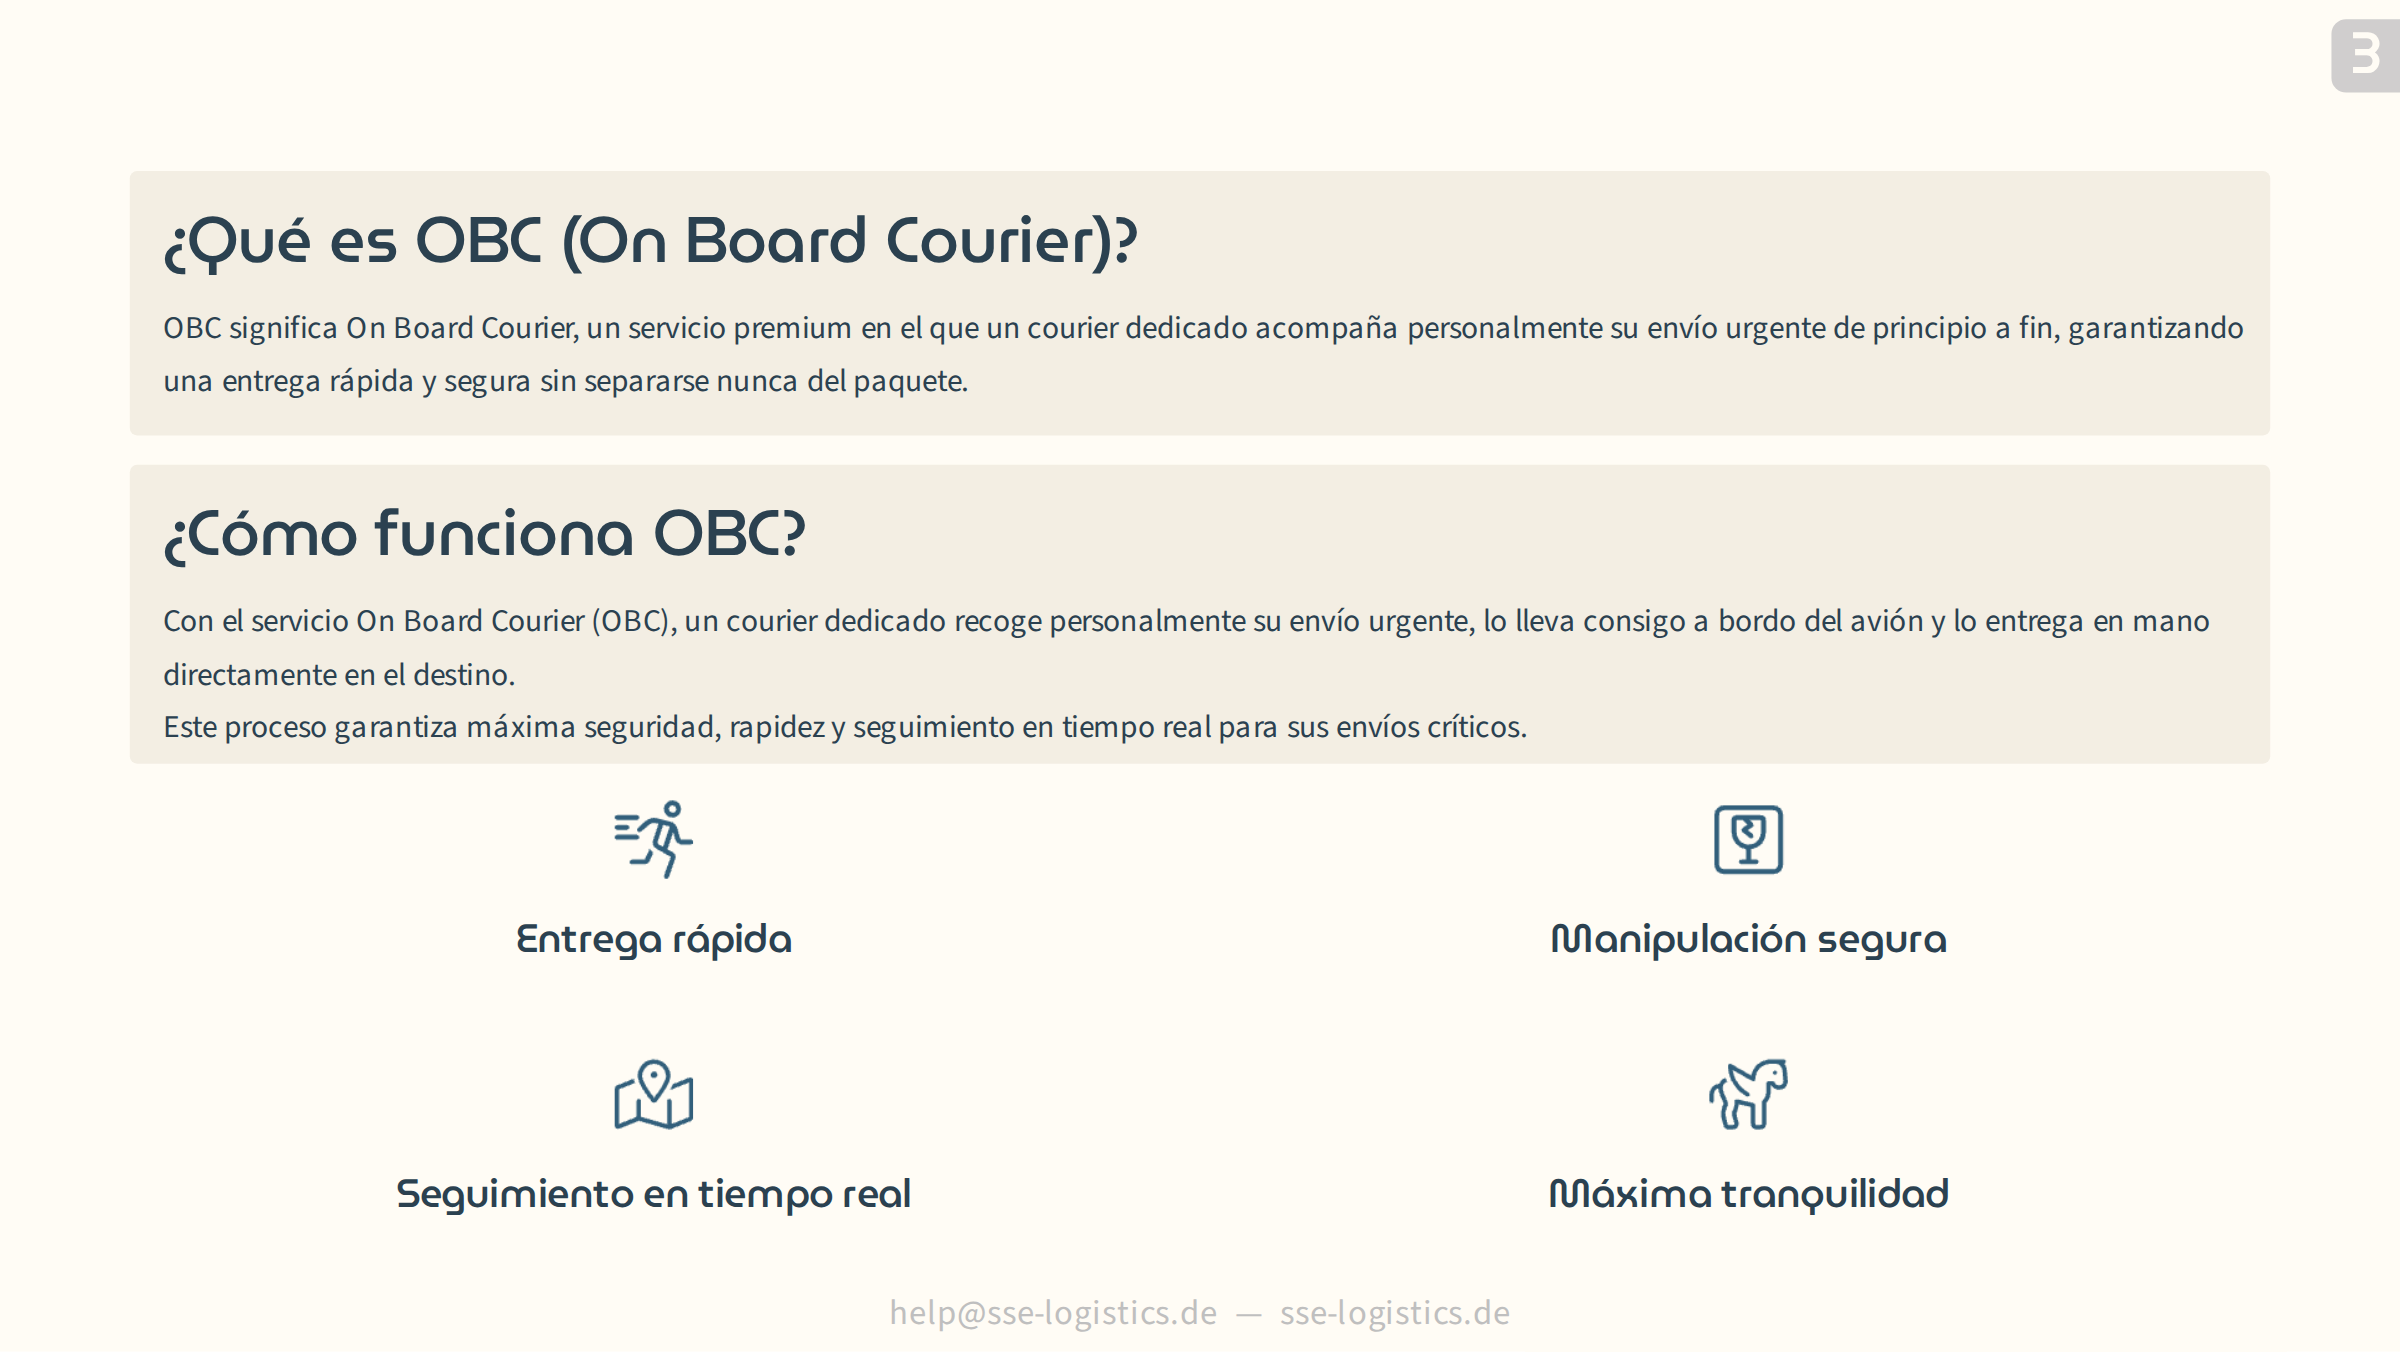
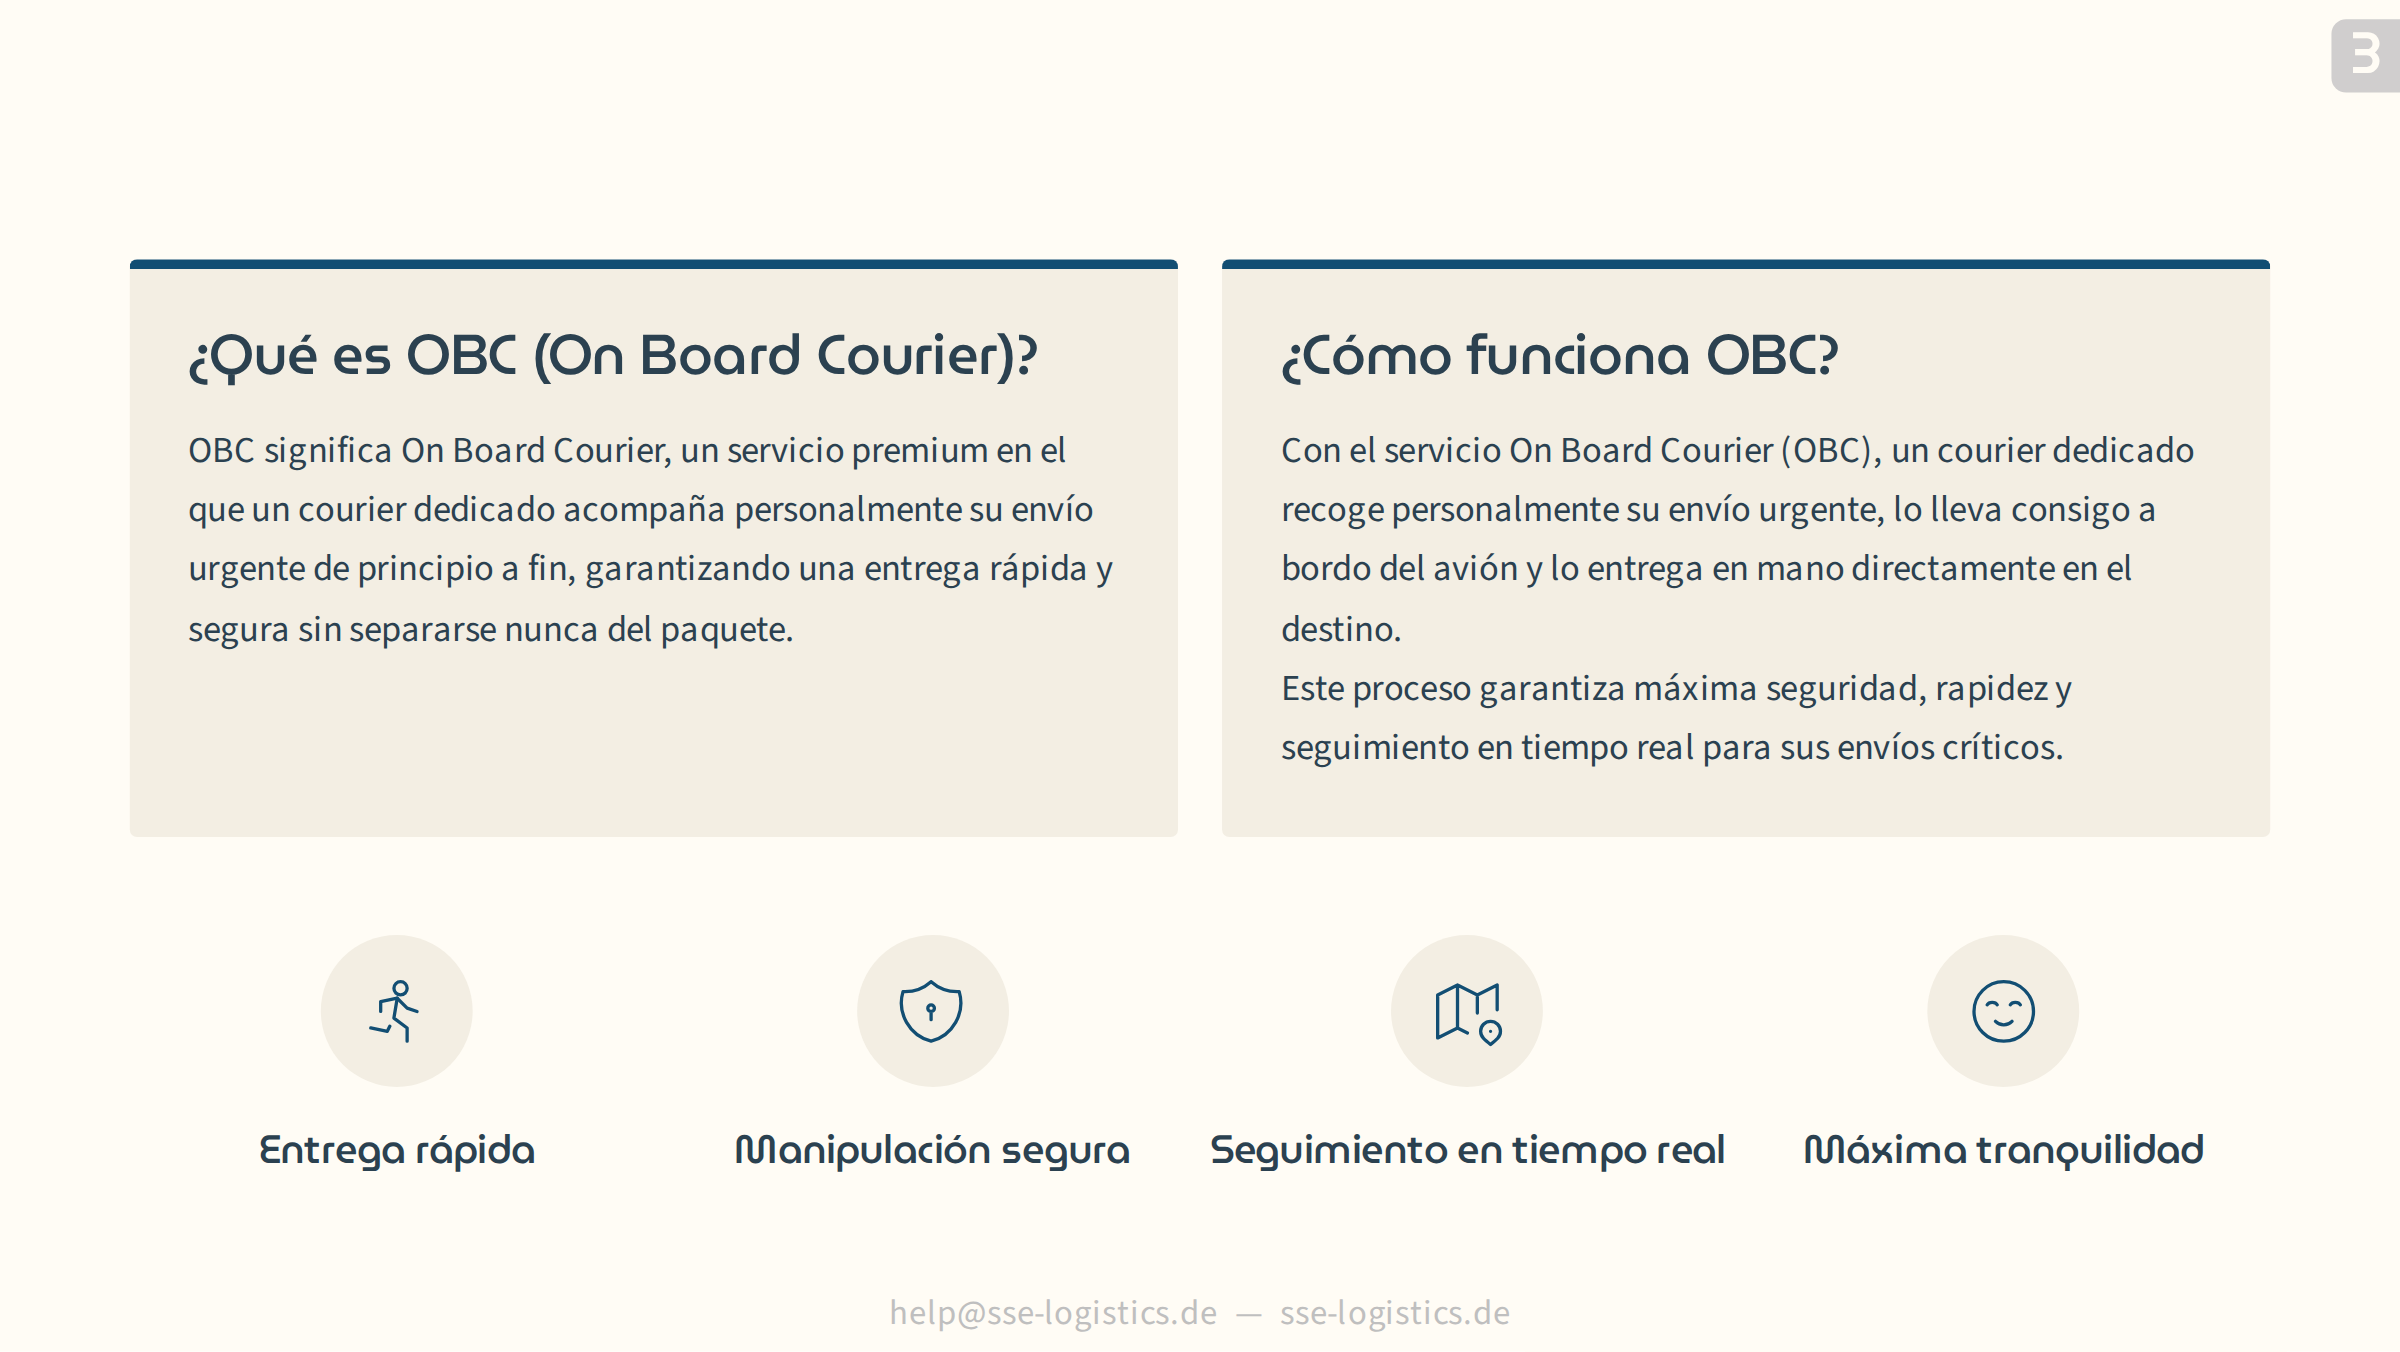
fix 4

diff --git a/2025-02-alla-presentation/slides.md b/2025-02-alla-presentation/slides.md
@@ -80,36 +80,29 @@ layout: page
 ---
 
 <div class="obc">
-<div class="card a-rise" style="--d: 150ms">
-  <h2>{{ t.obc.whatTitle }}</h2>
-  <p>{{ t.obc.whatText }}</p>
-</div>
-<div class="card a-rise" style="--d: 300ms">
-  <h2>{{ t.obc.howTitle }}</h2>
-  <p>{{ t.obc.howText }}</p>
+<div class="cards">
+  <div class="card"><h2>{{ t.obc.whatTitle }}</h2><p class="body-text">{{ t.obc.whatText }}</p></div>
+  <div class="card"><h2>{{ t.obc.howTitle }}</h2><p class="body-text">{{ t.obc.howText }}</p></div>
 </div>
 <div class="perks">
-  <div class="a-pop" style="--d: 650ms"><img src="/img/icons/fast-delivery.png" alt="" /><h3>{{ t.obc.perks[0] }}</h3></div>
-  <div class="a-pop" style="--d: 770ms"><img src="/img/icons/secure-handling.png" alt="" /><h3>{{ t.obc.perks[1] }}</h3></div>
-  <div class="a-pop" style="--d: 890ms"><img src="/img/icons/real-time-tracking.png" alt="" /><h3>{{ t.obc.perks[2] }}</h3></div>
-  <div class="a-pop" style="--d: 1010ms"><img src="/img/icons/peace-of-mind.png" alt="" /><h3>{{ t.obc.perks[3] }}</h3></div>
+  <div><span class="bubble"><tabler-run /></span><h3>{{ t.obc.perks[0] }}</h3></div>
+  <div><span class="bubble"><tabler-shield-lock /></span><h3>{{ t.obc.perks[1] }}</h3></div>
+  <div><span class="bubble"><tabler-map-2 /></span><h3>{{ t.obc.perks[2] }}</h3></div>
+  <div><span class="bubble"><tabler-mood-smile-beam /></span><h3>{{ t.obc.perks[3] }}</h3></div>
 </div>
 </div>
 
 <style>
-/* Two full-width cards and a 2x2 grid of perks; positions and sizes taken from the pptx */
-.obc { margin: 36.6px 9.5px 0 10.3px; }
-.obc .card { height: 107.4px; box-sizing: border-box; padding: 13.2px 6px 0 13px; border-radius: 3px; }
-.obc .card + .card { margin-top: 12.6px; }
-.obc .card h2 { font-size: 26.2px; line-height: 1.2; color: var(--c-ink); margin-bottom: 9px; }
-.obc .card p { font-size: 12.9px; line-height: 21.8px; white-space: pre-line; } /* \n in the text = line break */
-/* Spanish: the second card is taller and the perks sit lower, as in the Spanish pptx */
-:lang(es) .obc .card + .card { height: 122px; }
-:lang(es) .obc .perks { margin-top: 14.9px; }
-.obc .perks { display: grid; grid-template-columns: repeat(2, 447px); justify-content: center; row-gap: 35.3px; margin-top: 14.2px; text-align: center; }
-.obc .perks > div { display: flex; flex-direction: column; align-items: center; gap: 12px; }
-.obc .perks img { width: 32.3px; height: 32.3px; }
-.obc .perks h3 { font-size: 16.2px; }
+/* Two cards side by side with a brand stripe on top and four perks in a row below (the pre-reference layout) */
+.obc { margin: 72px 9.5px 0; }
+.obc .cards { display: grid; grid-template-columns: 1fr 1fr; gap: 18px; }
+.obc .card { border-top: 4px solid var(--c-brand); border-radius: 3px; padding: 22px 24px 24px; }
+.obc .card h2 { font-size: 22.85px; line-height: 1.2; color: var(--c-ink); margin-bottom: 14px; }
+.obc .card p { white-space: pre-line; } /* \n in the text = line break */
+.obc .perks { display: grid; grid-template-columns: repeat(4, 1fr); margin-top: 40px; text-align: center; }
+.obc .perks > div { display: flex; flex-direction: column; align-items: center; gap: 16px; }
+.obc .perks .bubble { font-size: 27px; }
+.obc .perks h3 { font-size: 16.2px; line-height: 1.2; }
 </style>
 
 ---
